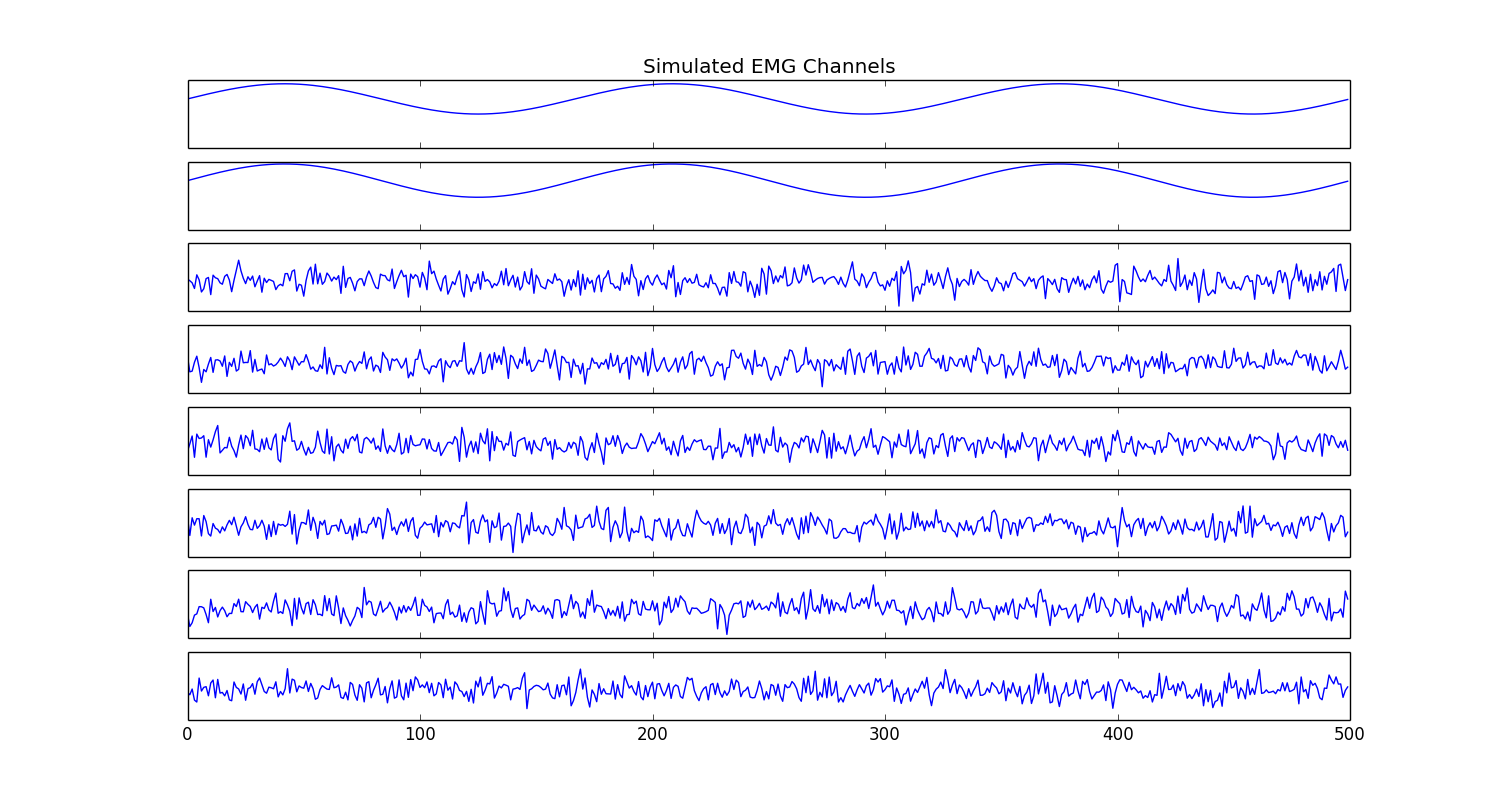
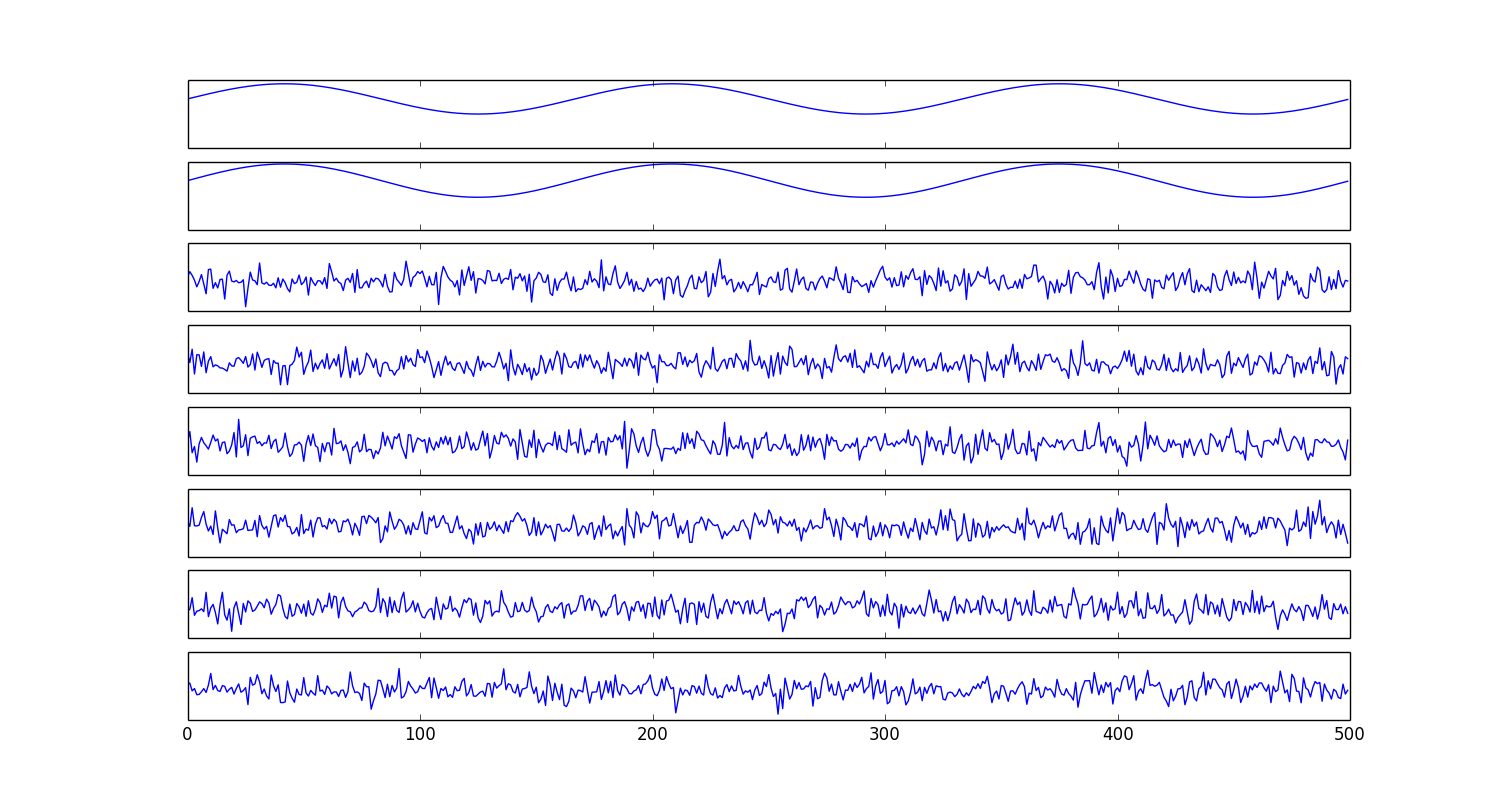
some later day changes

diff --git a/report_prototypes/rms_pca_comparison.py b/report_prototypes/rms_pca_comparison.py
@@ -36,8 +36,6 @@ for i in range(2,8):
 	X[i] = get_noise(n)
 X = np.asarray(X)
 
-plot_multiple(X, title='Simulated EMG Channels', filename='channels')
-
 #Perform RMS
 Y_rms = np.asarray([sqrt(abs(sum(t))) for t in X.T])
 
@@ -48,3 +46,6 @@ X_projected = np.dot(X.T, W)
 Y_pca = X_projected.T[-1]
 if sum(Y_pca) < 0: 
 	Y_pca*=-1
+
+#Plot
+plot_multiple(X, title='Simulated EMG Channels', filename='channels')
